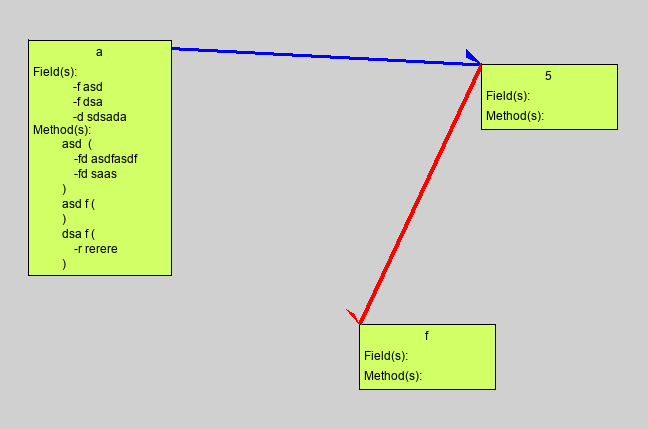
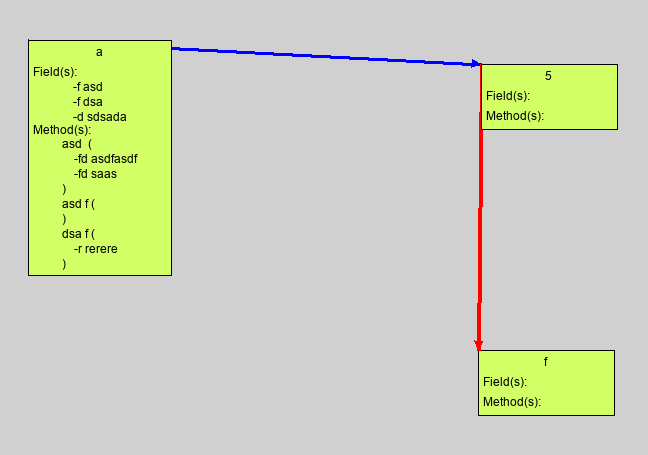
Fixed the varying arrowhead sizes

diff --git a/gui/ImageAdapter.py b/gui/ImageAdapter.py
@@ -12,14 +12,15 @@ from . import UMLLine
 
 class ImageAdapter():
 
-
+    #Setup a tk window and place a canvas in it
     def __init__(self):
         self.window = tk.Tk()
         self.window.geometry("800x627")
         self.main_frame = tk.Frame(self.window, width=627, height=800)
         self.main_panel = UMLBox.init_canvas(self.main_frame)
 
-    
+    #Populate the canvas, save a snapshot of it,
+    #then delete the window.
     def export(self, file_name):
         self.main_frame.pack(fill="both")
         self.main_panel.pack(fill="both")
@@ -27,6 +28,7 @@ class ImageAdapter():
         UMLLine.line_mediator()
         save_as_png(file_name)
         UMLBox.test_canvas.update()
+        UMLBox.class_list = []
         self.window.destroy()
 
 def save_as_png(file_name):
@@ -55,8 +57,12 @@ def save_as_png(file_name):
                     draw.line(xy=((coords[0], coords[1]), (dx1, dy1)), fill=UMLBox.test_canvas.itemcget(k[1], "fill"), width=4)
                     #Get start and end points of the line
                     lx1, ly1, lx2, ly2 = UMLBox.test_canvas.coords(k[1])
-                    v1 = 0.99*(lx2-lx1)+lx1
-                    v2 = 0.99*(ly2-ly1)+ly1
+                    #Find the slope of the current line
+                    slope = (ly2-ly1)/(lx2-lx1)
+                    #Get the y intercept of the line
+                    b = ly2 - slope*lx2
+                    #Aquire the base vertices for the arrowhead
+                    v1, v2 = get_vals(lx2, lx1, ly2, ly1, b, slope)
                     # Check if line is vertical
                     if lx1 == lx2:
                         vtx1 = (v1-5, v2)
@@ -72,7 +78,7 @@ def save_as_png(file_name):
                         vtx1 = (v1+a, v2+b)
                         vtx2 = (v1-a, v2-b)
                     #Draw the triangle at the end of the line
-                    draw.polygon([vtx1, vtx2, lx2, ly2], fill=UMLBox.test_canvas.itemcget(k[1], "fill"))
+                    draw.polygon([vtx1, vtx2, (lx2, ly2)], fill=UMLBox.test_canvas.itemcget(k[1], "fill"))
             #Draw the box
             draw.rectangle(xy=(coords), fill="#D1FF65", outline="black")
             center = (coords[2]-coords[0])/2 + coords[0]
@@ -93,3 +99,66 @@ def save_as_png(file_name):
         return "Exported png successfully."
     except:
         return "Failed to export."
+
+#Recursively get the y coordinate that is
+#less than 10 units away from the endpoint
+def get_v2(val, slope, ly2, ly1, b):
+    #Get a triangle base y if the line goes
+    #from top to bottom
+    if ly2 > ly1:
+        v2 = ly2 - val
+        v1 = (v2 - b)/slope
+    #Get a triangle base y if the line goes
+    #from bottom to top
+    else:
+        v2 = ly2 + val
+        v1 = (v2 - b)/slope
+    #Return if the base y is less than 10 units
+    #away from the endpoint
+    if abs(v2 - ly2) < 10:
+        return v2
+    #Recurse if the base y is not less than 10
+    #units away from the endpoint
+    else:
+        return get_v2(val - 1, slope, ly2, ly1, b)
+
+#Recursively get the x coordinate that is
+#less than 10 units away from the endpoint
+def get_v1(val, slope, lx2, lx1, b):
+    #Get a triangle base x if the line goes
+    #from right to left
+    if lx2 > lx1:
+        v1 = lx2 - val
+        v2 = slope*(v1) + b
+    #Get a triangle base x if the line goes
+    #from left to right
+    else:
+        v1 = lx2 + val
+        v2 = slope*(v1) + b
+    #Return if the base x is less than 10 units
+    #away from the endpoint
+    if abs(v1 - lx2) < 10:
+        return v1
+    #Recurse if the base x is not less than 10
+    #units away from the endpoint
+    else:
+        return get_v1(val - 1, slope, lx2, lx1, b)
+
+#Get the base x and y for the triangle that goes
+#at the end of the line
+def get_vals(lx2, lx1, ly2, ly1, b, slope):
+    #Get the base x
+    v1 = get_v1(10, slope, lx2, lx1, b)
+    #Get the base y
+    v2 = get_v2(10, slope, ly2, ly1, b)
+    #If delta x is greater than delta y
+    #define the arrowhead to be based off
+    #the x coordinate on the line
+    if abs(lx2 - lx1) > abs(ly2 - ly1):
+        v2 = slope*(v1) + b
+    #If delta y is greater than delta x
+    #define the arrowhead to be based off
+    #the y coordinate on the line
+    else:
+        v1 = (v2 - b)/slope
+    return v1, v2
